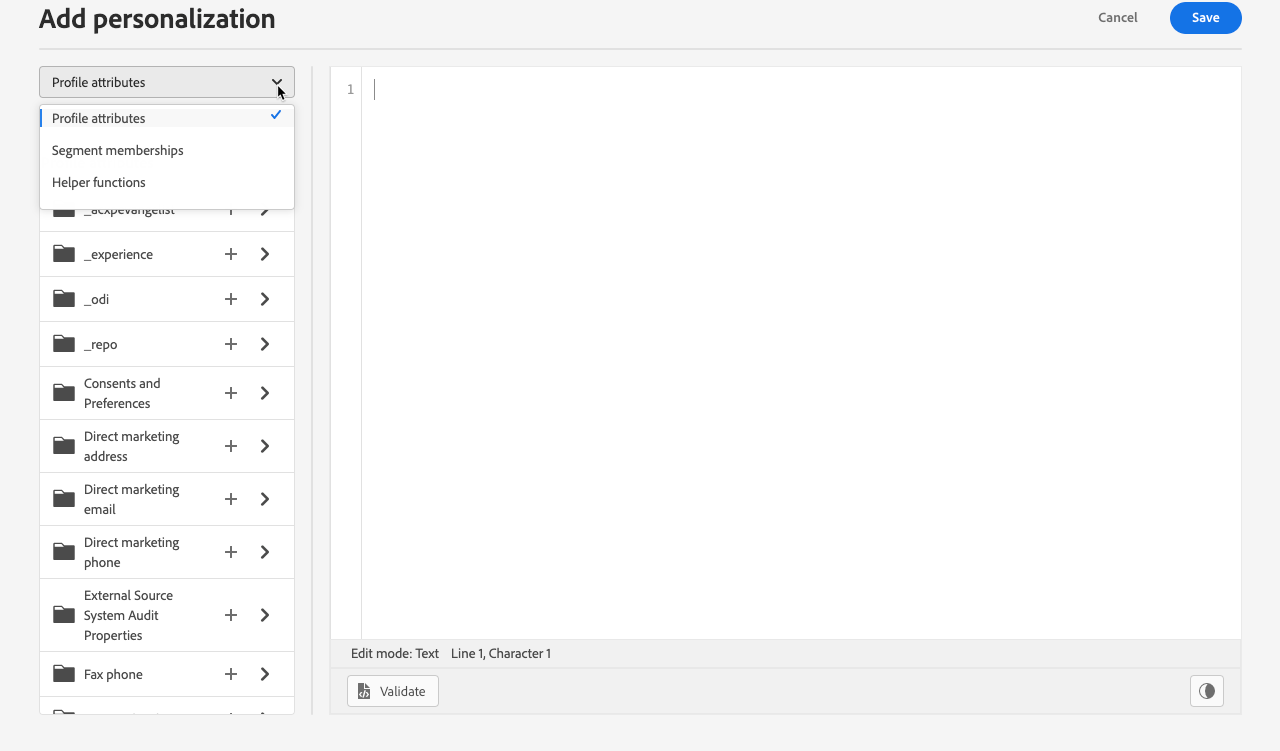
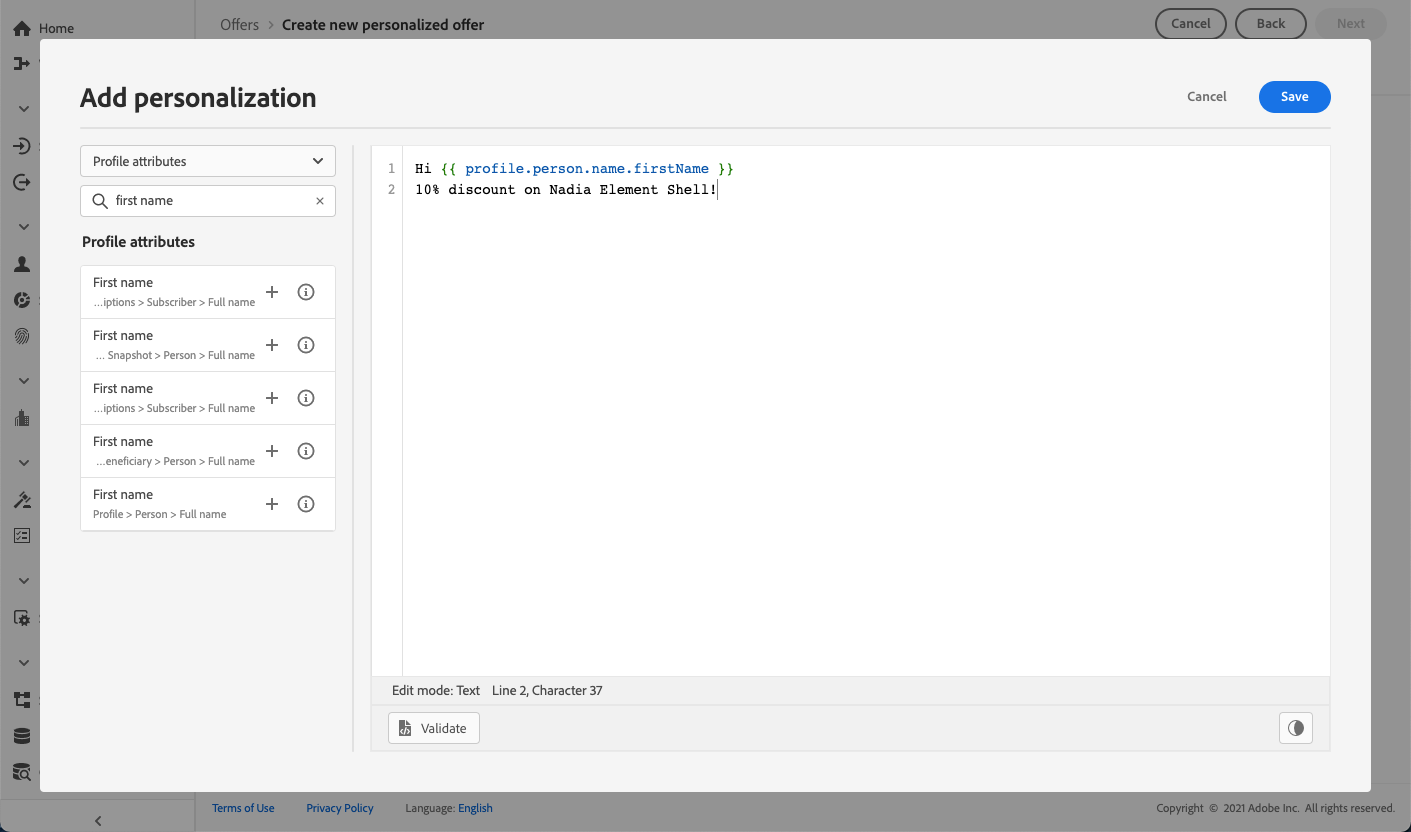
Offer perso small edits

diff --git a/help/using/offers/offer-library/creating-personalized-offers.md b/help/using/offers/offer-library/creating-personalized-offers.md
@@ -47,9 +47,14 @@ To add one or multiple representations to your offer and configure them, follow 
 
     ![](../../assets/channel-placement.png)
 
-    Only the available placements for the selected channel display in the **[!UICONTROL Placement]** drop-down list.
+    >[!NOTE]
+    >
+    >Only the available placements for the selected channel display in the **[!UICONTROL Placement]** drop-down list.
 
-1. Select a placement from the list, or use the button next to the **[!UICONTROL Placement]** drop-down list to browse all the placements.
+
+1. Select a placement from the list.
+
+    You can also use the button next to the **[!UICONTROL Placement]** drop-down list to browse all the placements.
 
     ![](../../assets/browse-button-placements.png)
 
@@ -81,7 +86,7 @@ You can add different types of content to a representation.
 
 ### Add images
 
-If the selected placement is image-type, you can add content coming from the Adobe Experience Cloud Asset library, a centralized repository of assets provided by [!DNL Adobe Experience Manager Assets Essentials].
+If the selected placement is image-type, you can add content coming from the **Adobe Experience Cloud Asset** library, a centralized repository of assets provided by [!DNL Adobe Experience Manager Assets Essentials].
 
 >[!NOTE]
 >
@@ -111,20 +116,23 @@ You can also insert text-type content when selecting a compatible placement.
 
 1. Select the **[!UICONTROL Custom]** option and click **[!UICONTROL Add content]**.
 
-    <!--![](../../assets/offer-text-content.png)-->
     ![](../../assets/offer-add-content.png)
 
     >[!NOTE]
     >
     >This option is not available for image-type placements.
 
-1. Type the text that will display in the offer. You can add personalization. Learn more in [this section](../../personalization/personalize.md#use-expression-editor).
+1. Type the text that will display in the offer.
+
+    ![](../../assets/offer-text-content.png)
+
+1. You can personalize your content using the Expression Editor. Learn more on [personalization](../../personalization/personalize.md#use-expression-editor).
 
     ![](../../assets/offer-personalization.png)
 
->[!NOTE]
->
->Only the **[!UICONTROL Profile attributes]**, **[!UICONTROL Segment memberships]** and **[!UICONTROL Helper functions]** sources are currently available.
+    >[!NOTE]
+    >
+    >Only the **[!UICONTROL Profile attributes]**, **[!UICONTROL Segment memberships]** and **[!UICONTROL Helper functions]** sources are available for Decision Management.
 
 ## Add eligibility rules and constraints {#eligibility}
 

diff --git a/help/using/personalization/personalize.md b/help/using/personalization/personalize.md
@@ -75,7 +75,7 @@ Learn more about Push notification configuration in [this section](../push-gs.md
 
 You can also access the personalization editor when adding text-type content to your offers' representations.
 
-Learn more on [Decision management](../../offers/offer-library/creating-personalized-offers.md) and defining an [offer's representation content](../../offers/offer-library/creating-personalized-offers.md#custom-text).
+Learn more on managing content with Decision management in [this section](../../offers/offer-library/creating-personalized-offers.md#custom-text).
 
 ## Use the Expression Editor {#use-expression-editor}
 
